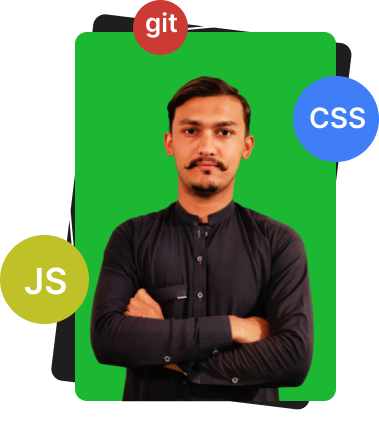
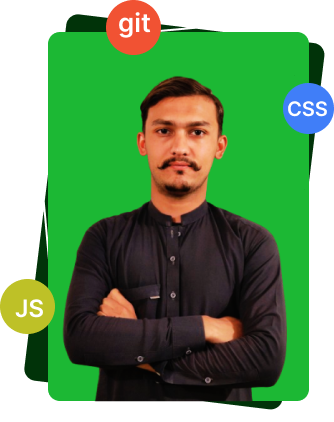
hero section

diff --git a/src/Components/Navbar.jsx b/src/Components/Navbar.jsx
@@ -24,7 +24,7 @@ const Navbar = () => {
     <>
 
   
-      <div className="  w-full h-16 shadow-sm z-[100]">
+      <div className="  w-full h-16 shadow-sm z-[100] ">
         <div className=" flex justify-between items-center w-full h-full px-4 md:px-10 2xl:px-16">
           <a href="https://saeediqbal.dev/" target="_self">
             <img
@@ -32,29 +32,35 @@ const Navbar = () => {
               className=" sm:h-[50px] sm:w-[160px] h-10 w-70 "
               alt="Logo Image"
             />
+
           </a>
 
           {/* Menu div */}
           <div>
-            <ul className="hidden md:flex">
-              <li className=" ml-10 text-sm uppercase hover:border-b ">
+            <ul className="hidden md:flex  pb-2 mt-3">
+              <li className=" ml-10 text-md  hover:border-b hover:border-secondary pb-2">
+               Home
+              </li>
+              <li className=" ml-10 text-md  hover:border-b hover:border-secondary pb-2">
                 About
               </li>
-              <li className=" ml-10 text-sm uppercase hover:border-b ">
-                Experties
+              <li className=" ml-10 text-md  hover:border-b hover:border-secondary pb-2">
+                Services
               </li>
-              <li className=" ml-10 text-sm uppercase hover:border-b ">Work</li>
-              <li className=" ml-10 text-sm uppercase hover:border-b ">
+              <li className=" ml-10 text-md  hover:border-b hover:border-secondary pb-2 ">
+                Projects
+              </li>
+              <li className=" ml-10 text-md  hover:border-b hover:border-secondary pb-2 ">
                 Reviews
               </li>
               <Link to="Contact-me" spy={true} smooth={true} offset={50} duration={800} >
-              <li className=" ml-10 text-sm uppercase hover:border-b ">
+              <li className=" ml-10 text-md  hover:border-b hover:border-secondary pb-2">
                 Contact
               </li>
               </Link >
             </ul>
             <div onClick={handleNav} className="md:hidden">
-              <RiMenu3Fill size={25} className="text-secondary" />
+              <RiMenu3Fill size={25} className="text-white" />
             </div>
           </div>
 
@@ -74,16 +80,18 @@ const Navbar = () => {
             <div className=" flex justify-between w-full items-center">
               <div>
                 <a href="https://saeediqbal.dev/" target="_self">
-                  <img
+                  {/* <img
                     src={MyImage}
                     className=" h-[70px] w-[70px] rounded-full shadow-md shadow-white "
                     alt="Logo Image"
-                  />
+                  /> */}
+                  
+            <span>Saeediqbal.dev</span>
                 </a>
               </div>
               <div>
               <div onClick={handleNav} className=" shadow-md rounded-full shadow-white p-1 cursor-pointer">
-                <MdOutlineClose size={25} className="text-secondary" />
+                <MdOutlineClose size={25} className="text-white" />
               </div>
               </div>
             </div>

diff --git a/src/Components/HeroSection.jsx b/src/Components/HeroSection.jsx
@@ -9,17 +9,22 @@ const HeroSection = () => {
       <div className="h-screen w-full flex flex-col bg-[#080B09]">
         <Navbar />
 
-        <div className="flex justify-between gap-2 md:flex-row flex-col  md:gap-28 px-[1rem] md:px-52 mt-[5rem] ">
-          <div className="md:w-[50%] w-[100%] order-1 md:order-first">
+        <div className="flex justify-between gap-2 md:flex-row flex-col  md:gap-28 px-[1rem] md:px-52  mt-[2rem]">
+          <div className="md:w-[50%] w-[100%] order-1 md:order-first pt-[4rem]">
             
             <div className="text-[12px] text-secondary ">Hello, I'm</div>
-            <div className="text-[24px] font-semibold">Saeed Iqbal</div>
-            <div className="text-[16px] font-semibold">Website Developer</div>
-            <div>I help businesses grow online and make their online presence stand out from the crowd. I will make professional website for you in wordperss, shopify or react js</div>
-            <div > <button className="bg-secondary px-3 py-1 rounded-sm">Contact Now</button></div>
+            <div className="text-[54px] font-semibold ">Saeed Iqbal</div>
+            <div className="text-[22px] font-semibold ">Website Developer</div>
+            <div className="text-[14px] py-4  ">I help businesses grow online and make their online presence stand out from the crowd. I will make professional website for you in wordperss, shopify or react js. So, what's holding you back? let's build your dream website together</div>
+            <div className="mt-4"> 
+              <button className=" bg-secondary border-[1px] border-secondary px-3 py-[08px] rounded-sm text-[14px] md:w-[30%] w-[40%] ">View Projects</button>
+              
+            <button className=" border-[1px] border-secondary px-3  ml-6 py-[08px] rounded-sm text-[14px] md:w-[30%] w-[40%] ">Contact Me</button>
+            
+            </div>
           </div>
-          <div className="md:w-[50%] w-[100%] px-[1rem]  ">
-            <img src={myImage} className="h-[90%] w-[90%] md:w-[80%] md:h-[100%] "/>
+          <div className="md:w-[50%] w-[100%] px-[1rem] md:m-8 ">
+            <img src={myImage} className="h-[100%] w-[90%] md:w-[100%] md:h-[100%] "/>
           </div>
         </div>
       </div>
